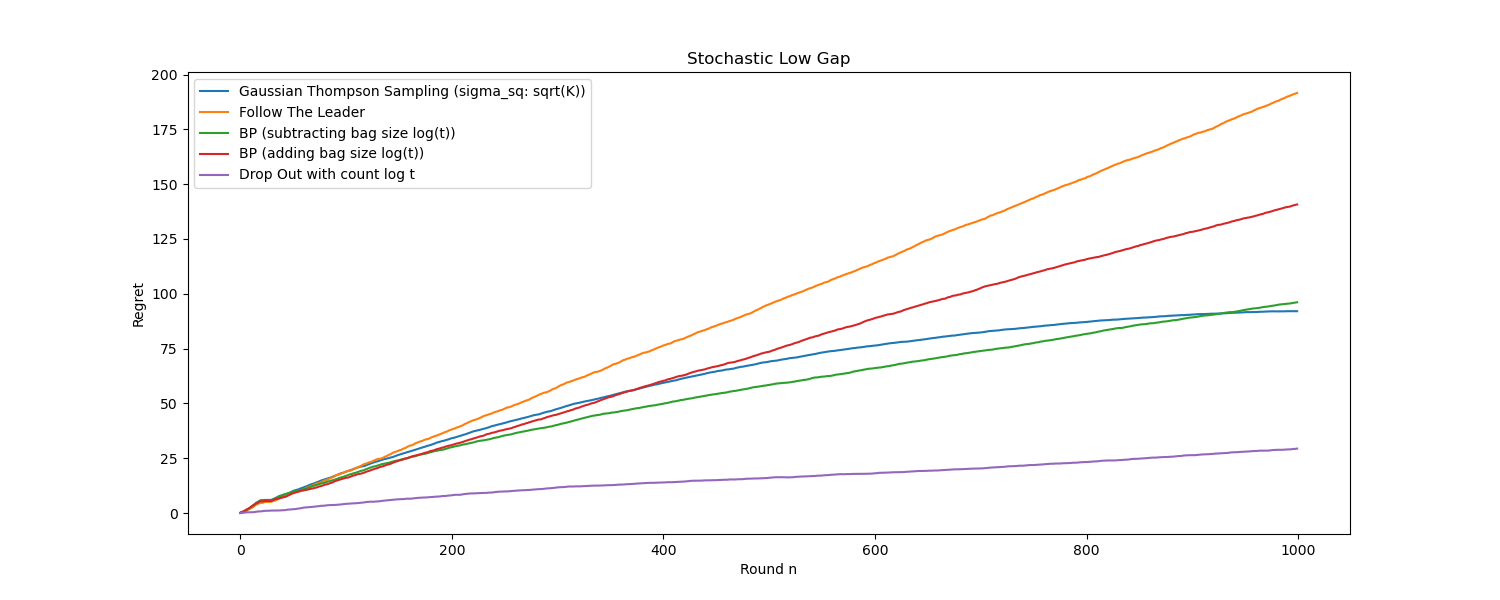
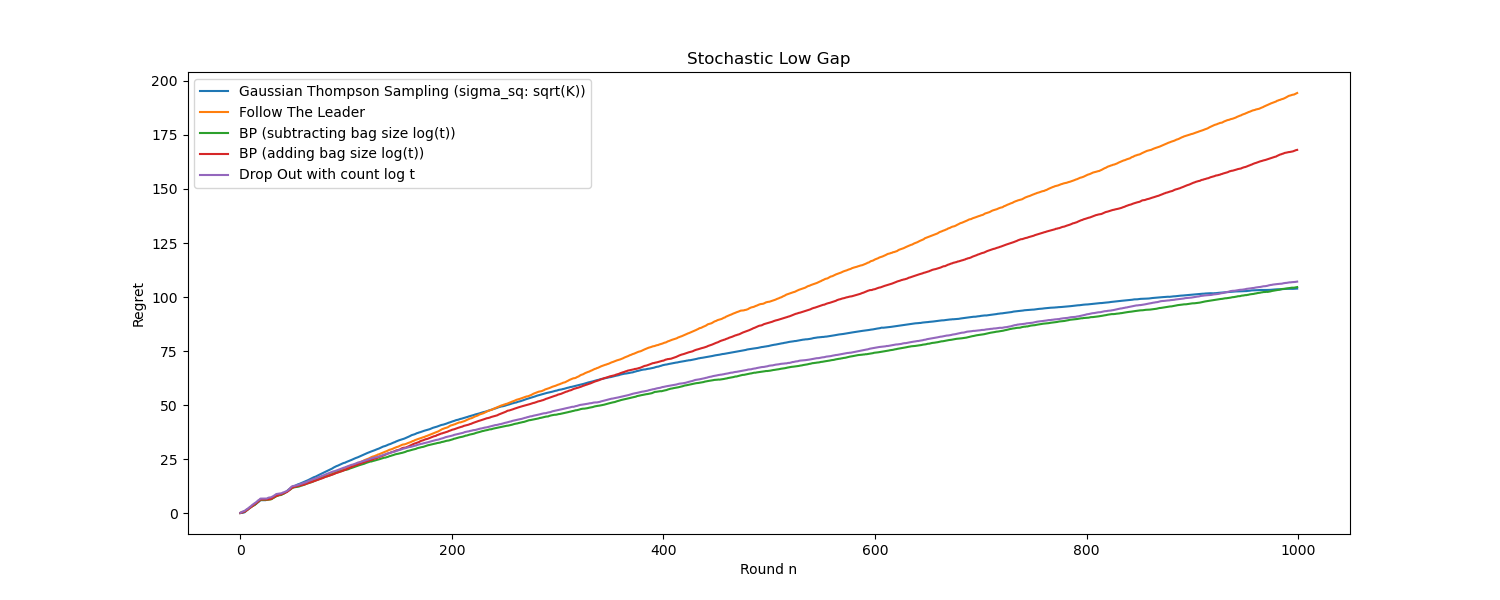
Update 2

diff --git a/src/bandit_algorithms/follow_the_leader.py b/src/bandit_algorithms/follow_the_leader.py
@@ -67,10 +67,17 @@ class Follow_The_Leader_PI(Bandit_Algorithm_PI):
             return A_t
         else:
             arm_estimates = np.sum(importance_weighted_losses, axis = 1)
-            for i in range(self.K):
-                arm_estimates[i] = arm_estimates[i] / len(losses[i])
             A_t = np.argmin(arm_estimates)
             p_t = np.zeros(shape = self.K) 
             p_t[A_t] = 1
+            self.current_sampling_distribution = ((1 - (1 / t)) * p_t) + (1 / (t * self.K))
+            
+            # flip a bernoulli with success 
+            # probability of (1/t) to add an 
+            # explicit exploration component
+            z = np.random.binomial(n = 1, p = (1 / t))
+
+            if (z == 1):
+                A_t = random.randint(low = 0, high = self.K, size = 1)
             
             return A_t

diff --git a/src/bandit_algorithms/dropout.py b/src/bandit_algorithms/dropout.py
@@ -63,8 +63,11 @@ class DropOut_PI(Bandit_Algorithm_PI):
         self.__current_sampling_distribution = distr 
 
     def get_arm_to_pull(self, importance_weighted_losses, losses, t):
-        if (t <= self.exploration_phase_length):
-            return math.floor(t / self.init_exploration)
+        if (t < self.exploration_phase_length):
+            A_t = math.floor(t / self.data_generating_mechanism.get_init_exploration())
+            self.current_sampling_distribution = np.zeros(shape = self.data_generating_mechanism.get_K())
+            self.current_sampling_distribution[A_t] = 1
+            return A_t
         else:
             num_counts = np.zeros(shape = self.K)
 
